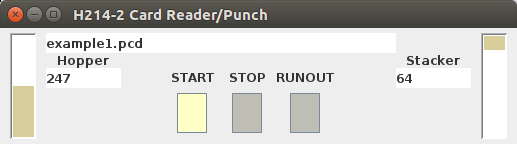
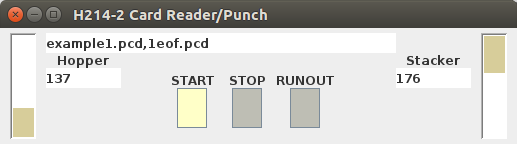
Misc cleanup

diff --git a/hw2000/docs/h214readerpunch.html b/hw2000/docs/h214readerpunch.html
@@ -25,6 +25,8 @@ will stall a PDT instruction if there are no cards in the input hopper.
 If a program wants to detect the end of a card desk, there must be
 a special card to indicate the end, such as "1EOF&#916;", and the
 program must recognize the card and stop reading.
+There is a file "1eof.pcd" which contains one punch card with
+"1EOF&#916;" which can be added to other decks as needed.
 
 <P>The window shows a picture of the input hopper on the left,
 and the output stacker on the right.

diff --git a/hw2000/www/h214readerpunch.html b/hw2000/www/h214readerpunch.html
@@ -25,6 +25,8 @@ will stall a PDT instruction if there are no cards in the input hopper.
 If a program wants to detect the end of a card desk, there must be
 a special card to indicate the end, such as "1EOF&#916;", and the
 program must recognize the card and stop reading.
+There is a file "1eof.pcd" which contains one punch card with
+"1EOF&#916;" which can be added to other decks as needed.
 
 <P>The window shows a picture of the input hopper on the left,
 and the output stacker on the right.

diff --git a/hw2000/P_CardReaderPunch.java b/hw2000/P_CardReaderPunch.java
@@ -318,6 +318,7 @@ public class P_CardReaderPunch extends JFrame
 		gb.setConstraints(pn, gc);
 		add(pn);
 		++gc.gridx;
+		gc.anchor = GridBagConstraints.SOUTH;
 		lb = new JLabel("START");
 		gb.setConstraints(lb, gc);
 		add(lb);
@@ -340,6 +341,7 @@ public class P_CardReaderPunch extends JFrame
 		gb.setConstraints(lb, gc);
 		add(lb);
 		++gc.gridx;
+		gc.anchor = GridBagConstraints.CENTER;
 		pn = new JPanel();
 		pn.setPreferredSize(new Dimension(50, 5));
 		gb.setConstraints(pn, gc);
@@ -362,6 +364,7 @@ public class P_CardReaderPunch extends JFrame
 		add(pn);
 		gc.gridx += 3;
 		gc.gridwidth = 1;
+		gc.anchor = GridBagConstraints.NORTH;
 		start = new LightedButton(Peripheral.btnWhiteOn,
 					Peripheral.btnWhiteOff);
 		start.setActionCommand("start");
@@ -393,6 +396,7 @@ public class P_CardReaderPunch extends JFrame
 		gb.setConstraints(runout, gc);
 		add(runout);
 		++gc.gridx;
+		gc.anchor = GridBagConstraints.CENTER;
 		gc.gridwidth = 3;
 		pn = new JPanel();
 		pn.setPreferredSize(new Dimension(50, 5));
@@ -448,7 +452,8 @@ public class P_CardReaderPunch extends JFrame
 	}
 
 	public void addInput(InputStream deck, String src, int count) {
-		// TODO: reject if idev != null? close it? stack after?
+		// TODO: reject if hopper not empty? close it?
+		// stack after? stack before?
 		if (src == null) src = "Program";
 		addDeck(new NamedInputStream(deck, src, count));
 	}
@@ -526,7 +531,32 @@ public class P_CardReaderPunch extends JFrame
 		return nextDeck();
 	}
 
-	// Caller confirms "idev == null" before calling
+	// Consistency:
+	//	ASSERT if !hopper.isEmpty() then idev != null
+	//	ASSERT if idev == null then hopper.isEmpty()
+	//	if idev == null && cards > 0 then BLANK CARDS are loaded
+	//	if idev == null && cards == 0 then NO CARDS at all are loaded
+
+	// Hopper contains no cards at all.
+	// Cannot be used during transitions (when idev or cards are inconsistent).
+	private boolean hopperIsEmpty() {
+		return idev == null && sts[1].cards == 0;
+	}
+
+	// Hopper contains BLANK cards (only)
+	// Cannot be used during transitions (when idev or cards are inconsistent).
+	private boolean hopperHasBlank() {
+		return  idev == null && sts[1].cards > 0;
+	}
+
+	// Hopper contains non-BLANK cards
+	private boolean hopperHasDeck() {
+		return  idev != null;
+	}
+
+	// Caller confirms "idev == null" before calling.
+	// Note, this is transition code: idev and cards are not consistent.
+	// Upon return, the state should be consistent.
 	private boolean nextDeck() {
 		if (hopper.isEmpty()) {
 			// NOTE: this is not BLANK cards...
@@ -549,7 +579,7 @@ public class P_CardReaderPunch extends JFrame
 
 	private void addDeck(NamedInputStream nis) {
 		hopper.add(nis);
-		if (idev == null) {
+		if (!hopperHasDeck()) {
 			nextDeck(); // updates display
 			return;
 		}
@@ -571,12 +601,15 @@ public class P_CardReaderPunch extends JFrame
 				doStall();
 				if (pcs.cards == 0) { // implied abort
 					// assumed to be INITIALIZE - abort I/O
-					//pcs.error = true; // is this an error?
+					// processor should not be running.
 					return false;
 				}
 			}
 			a = -1;
-			if (idev != null) {
+			if (hopperHasBlank()) {
+				Arrays.fill(pcs.card, (byte)0);
+				a = pcs.card.length;
+			} else if (!hopperIsEmpty()) {
 				try {
 					// only one card read at a time... (?)
 					a = idev.read(pcs.card);
@@ -587,10 +620,6 @@ public class P_CardReaderPunch extends JFrame
 				if (a < 0 && finishDeck()) {
 					continue;
 				}
-			} else if (pcs.cards > 0) {
-				// assume a *finite* stack of BLANK cards...
-				Arrays.fill(pcs.card, (byte)0);
-				a = pcs.card.length;
 			}
 			pcs.empty = !(a > 0);
 			if (!pcs.empty) {
@@ -897,7 +926,7 @@ public class P_CardReaderPunch extends JFrame
 	}
 
 	private String stackList(char delim, boolean blanks) {
-		if (idev == null && sts[1].cards > 0 && blanks) {
+		if (hopperHasBlank() && blanks) {
 			return "BLANK";
 		}
 		String ret = "";
@@ -920,7 +949,7 @@ public class P_CardReaderPunch extends JFrame
 
 	private void doInputHopperRight() {
 		// Set/Add BLANK cards
-		if (idev != null) {
+		if (hopperHasDeck()) {
 			clearHopper();
 		}
 		setBlank(sts[1].cards + defBlank);
@@ -1063,6 +1092,7 @@ public class P_CardReaderPunch extends JFrame
 		vUnit = unit;	// PCS code, not unit number
 		return false; // input != output
 	}
+	// TODO: clean all this up...
 	public boolean ready() {
 		// Don't know if input or output,
 		// so only report the obvious case.
@@ -1126,6 +1156,7 @@ public class P_CardReaderPunch extends JFrame
 	}
 	public void end() {
 		// No need to truncate output... by definition output is new file.
+		// User must save the output...
 	}
 	public int getError() { return 0; }
 }
